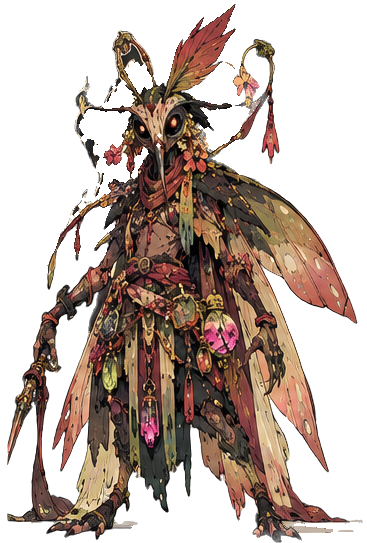
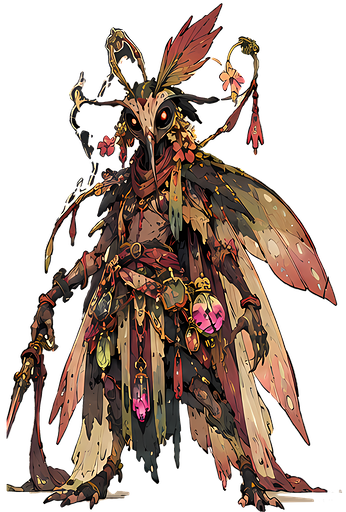
Agent3: HD zephyr (stray fragments removed), zephyr/solmara/scarlith/bramvex packs + specs, fragment cleanup, closeup QA scene
Claude-Session: https://claude.ai/code/session_01JpCUd4o87VKhrDe3kzX6UT

Changed region(s): [[0.0, 0.0, 0.9827, 1.0], [0.7803, 0.375, 0.8671, 0.5]]

diff --git a/tools/art_pipeline/hd_sprites.py b/tools/art_pipeline/hd_sprites.py
@@ -105,6 +105,20 @@ def refine_x4(a1, rgb4, bgc, v, box, k=4):
             edge = edge[edge > 0]
             outside = ndi.binary_dilation(np.isin(lab, edge), iterations=2)
             a = np.where(outside & ~inner, np.minimum(a, key), a)
+    # detached fragments from neighbouring panels (bits of another view, label arrows): small islands far
+    # from the main body. Ornaments that hang close (antenna tips, crown spheres) are within keep_dist.
+    binm = a > 0.5
+    lab, n = ndi.label(binm)
+    if n > 1:
+        sizes = ndi.sum(binm, lab, index=np.arange(1, n + 1))
+        main = lab == (1 + int(np.argmax(sizes)))
+        dist = ndi.distance_transform_edt(~ndi.binary_dilation(main, iterations=1))
+        keep_dist = float(v.get("keep_dist", 0.035)) * h4
+        for i, sz in enumerate(sizes):
+            comp = lab == (i + 1)
+            if sz < 0.015 * sizes.max() and dist[comp].min() > keep_dist:
+                a[ndi.binary_dilation(comp, iterations=3)] = 0.0
+                print("  drop fragment", v.get("source", ""), int(sz), "px at", [int(c.mean()) for c in np.nonzero(comp)][::-1], flush=True)
     # sheet ground lines / shadow strokes under the feet: thin horizontal structures in the bottom band
     yb = int(h4 * 0.93)
     sol = a[yb:] > 0.35

diff --git a/design/model_sheets/bramvex/spec.md b/design/model_sheets/bramvex/spec.md
@@ -1,0 +1,31 @@
+# Bramvex - The Quiet Command (MIL-006) - modelling / art spec
+Source: tools/source_art/bramvex_sheet.png (1536 px), lore bible v12 s.31, canon.json.
+Hi-res views: hires/{front,side,back}_hd.png (TURNAROUND panel, x4 ESRGAN, original paint; side mirrored to face
+screen-right like the game). Boards: turnaround.png, palette.json/png. No expression panel on the sheet (only
+HEAD & DETAIL STUDIES) -> one portrait (default.png) in game.
+
+## Canon
+Homeland Thornmarch. Knack: Camouflage / Sensory Adaptation / Tactical Terrain Use. Weapon "Diplomacy".
+Sheet: Class Vanguard/Initiator, Role Disruptor/Zone Control, Inspiration Prickly Stick Insect / Spiked Bat /
+Sergeant; Tone Disciplined/Camouflaged/Brutal. Bible: "approved prickly-stick-insect design, ragged membranous
+wings, field equipment, restrained red insignia and thorned weapon." Quote: "Silence sets the standard."
+**Height: not printed on the sheet.** canon.json 2.3 m is consistent with the SCALE COMPARISON panel (human
+silhouette ~ 0.75x his height). Flag for creator confirmation.
+
+## Anatomy / costume (read off the sheet)
+- Very thin, long-limbed stick-insect body in bark browns with thorn spurs on every limb segment; long thin
+  antennae (red-tipped) rising from the head; mantis-like narrow face with a red eye (head studies).
+- Military peaked cap (olive/dark, red band) worn low; olive field jacket, crossed chest straps, ammunition/pouch
+  belt with many brown leather pouches.
+- Bat-like ragged membrane wings (tan/olive, with holes), folded like a cloak from the shoulders; long tattered
+  dark-red banner/tabard with gold chevron sergeant insignia (front left and back).
+- Lantern (red-orange glass) hanging from a hooked pole/branch held over the shoulder; small lantern on the hip.
+- Weapon "Diplomacy": long thorned club/branch with a spiked head (WEAPON & GEAR DETAILS panel shows 6 variants).
+- Palette: bark browns, olive, muted khaki, blood-red cloth, gold insignia (palette.json; sheet palette strip:
+  ochre, tan, crimson, dark red, brown, olive grey, khaki, pale beige).
+
+## Silhouette / notes
+Tall and stooped, angular; the wings + banner give a ragged cloak outline; antennae and lantern pole break the
+top of the silhouette. Animation panel: idle (blend in), walk, stalk low, sprint, wing flare, vault, wall cling,
+ambush drop, thorn guard. The side view's pale area between the legs is translucent wing membrane on the sheet
+(kept, not background).

diff --git a/design/model_sheets/zephyr/spec.md b/design/model_sheets/zephyr/spec.md
@@ -1,0 +1,28 @@
+# Zephyr - The Nectar Seeker (AER-009) - modelling / art spec
+Source: tools/source_art/zephyr_sheet.png (1536 px), lore bible v12 s.26, canon.json.
+Hi-res views: hires/{front,side,back}_hd.png (FRONT = large hero/front figure, SIDE and BACK from the turnaround
+row; side mirrored to face screen-right). Boards: turnaround.png (165 cm bar), palette.json/png, expressions.png
+(calm, curious, focused, aggressive, haunted - the in-game portraits = sheet EXPRESSIONS panel).
+
+## Canon
+Homeland The Briarwild. Knack Motion / Atmospheric Disturbance / Pollination. Pronoun they. Sheet: Class
+Skirmisher/Support, Role Mobility/Debuff/Utility, Inspiration Hummingbird Hawk-Moth, Tone Wild/Mystical/Ancient/
+Unsettling. **HEIGHT 165 cm (5'5")** - canon.json 1.65 (match). Bible: "hummingbird-hawk-moth and
+old-folklore-fairy design philosophy". Quote: "Beauty distracts. Movement protects."
+
+## Anatomy / costume (read off the sheet)
+- Long, thin, curved hawk-moth PROBOSCIS (also a weapon: "spear / whip", EQUIPMENT panel) projecting from a
+  narrow bird-skull-like mask face; dark eyes with orange-yellow glints.
+- Head crest of pointed crimson/olive leaf-feathers; two long drooping antennae ending in red fuchsia-like
+  tassels; small flowers (pink hibiscus-like bloom at the throat, orange blossoms on the shoulders).
+- Two pairs of long hawk-moth wings, pink-to-olive gradient with pale spots and dark veins; at rest they fold
+  down the back like a tattered cloak (WING STUDIES: open/hover, dorsal, ventral, folded).
+- Layered ragged cloth/leaf tatters in olive, crimson, cream; belt of hanging NECTAR VIALS (pink glowing glass,
+  gold caps) - healing/buff items; one large pink vial at the hip.
+- Thin dark-brown chitin limbs, long clawed fingers, bird-like clawed feet; a hooked staff in the front pose.
+- Palette (sheet strip): ochre, tan, browns, mauve, rose, pale pink; measured: see palette.json.
+
+## Notes
+Silhouette = tall folded wings + long proboscis + drooping antenna tassels. The sheet's "haunted" expression is a
+grey, almost human face (the folklore-fairy side) - intentional on the sheet, keep it for that portrait only.
+Cut fixes in this pass: stray wing fragment from the neighbouring view removed from side and back.

diff --git a/design/model_sheets/solmara/spec.md b/design/model_sheets/solmara/spec.md
@@ -1,0 +1,25 @@
+# Solmara - The Tide Balancer (TID-001) - modelling / art spec
+Source: tools/source_art/solmara_sheet.png (1536 px, "sea-spider v2 - approved"), lore bible v12 s.30, canon.json.
+Hi-res views: hires/{front,side,back}_hd.png (TURNAROUND panel FRONT/SIDE/BACK; TOP and BOTTOM exist on the sheet
+but are not cut). Boards: turnaround.png (5.5 m bar), palette.json/png, expressions.png (in-game portraits =
+EXPRESSIONS / MOOD VARIATIONS panel: calm, aggressive, defensive, curious, ritual).
+
+## Canon
+Homeland The Pelagic Expanse. Knack Solar / Lunar / Tidal / Gravitational. Pronoun: none given (canon.json "")
+- keep text neutral. Sheet: Class Controller/Tank, Role Zone Control/Disruption, Inspiration Sea Spider / Sun &
+Moon; Tone Divine/Alien/Oceanic. **HEIGHT 5.5 m (18 ft)** on the SCALE COMPARISON panel - canon.json 5.5 (match).
+Bible: "retains the approved actual-sea-spider anatomy and solar/lunar mechanism." Quote: "The ocean remembers
+both the sun and the moon."
+
+## Anatomy (read off the sheet)
+- True pycnogonid (sea spider) layout: tiny central body, 8 extremely long jointed walking legs (pale ivory/bone
+  plates with gold edging and deep navy-blue segments), leg tips pointed; legs arch high above the body.
+- Head/proboscis: long beak-like proboscis in ivory and gold; dark compound "eyes".
+- SUN/MOON CORE: a glowing gold sun disc (energy/push) with radiating gold spikes paired with a black-and-white
+  crescent MOON CORE (gravity/pull) mounted above/behind the head - the eclipse motif. Gold rays form a halo.
+- Translucent tide-silk webbing between legs (TIDE SILK STRUCTURE panel); pressure sensors on legs.
+- Palette: ivory #eccfa7, gold #de9b50, deep navy #363e51 / #171518, rust #7f4722 (palette.json).
+
+## Notes
+In game Solmara stands in the hub tidal pool. Billboard height 5.5 m; texture 704-744 px tall (the sheet views
+are only 176-186 px tall, so 4x is the real ceiling). Leg tips are thin: at small mip levels they fade - expected.

diff --git a/design/model_sheets/scarlith/spec.md b/design/model_sheets/scarlith/spec.md
@@ -1,0 +1,24 @@
+# Scarlith - The Fermented Kingpin (MYC-013) - modelling / art spec
+Source: tools/source_art/scarlith_sheet.jpg (1400 px), lore bible v12 s.29, canon.json.
+Hi-res views: hires/front_hd.png (HERO art - the turnaround FRONT is small; the game uses the hero), side_hd.png
+and back_hd.png (TURNAROUND SIDE/BACK). Boards: turnaround.png (12 cm bar), palette.json/png, expressions.png
+(neutral, curious, calculating, aggressive, satisfied).
+
+## Canon
+Homeland The Velvet Warrens. Knack Fermentation / Decomposition / Cultivation. Sheet: Class Disruptor/Controller,
+Role Zone Control/Resource Denial, Inspiration Red Velvet Mite + Pirate + Cheese (aging/decay/value);
+Tone Deceptive/Opportunistic/Regal. **HEIGHT 12 cm (4.7")** - canon.json 0.12 m (match).
+NOTE: the sheet's scale figure is a human silhouette drawn SHORTER than Scarlith next to "12 cm"; read as a
+"scale-state" comparison, not literal. In game he stands on the Common Table at 12 cm (dialogue: "Down here,
+Handler. Lower. On the table.") - consistent with canon.
+
+## Anatomy / costume
+- Round crimson red-velvet-mite body covered in dense red velvet fur; 8 short red legs with darker tips;
+  two small glossy black eyes with gold glints, fur tuft "mustache".
+- Black pirate tricorn with gold trim and a gold compass/sun emblem; long dark coat panels with gold embroidery,
+  chains, coins, medallions, anchor charms.
+- Huge CHEESE CARAPACE / backpack: pale yellow aged-cheese mass with holes (Swiss-cheese texture), worn like a
+  shell, dripping cream tatters; barrel/"treasure cache" on the back (back view).
+- Lantern (spores) - orange glass - hanging from a staff; long hooked gaff/boat-hook staff (front hero).
+- Palette: crimson #8c3b2b/#572520, near-black #0e0707, cheese #edba7a/#b77743 (palette.json; sheet swatches
+  red, dark red, gold, brown, olive grey, sage).
